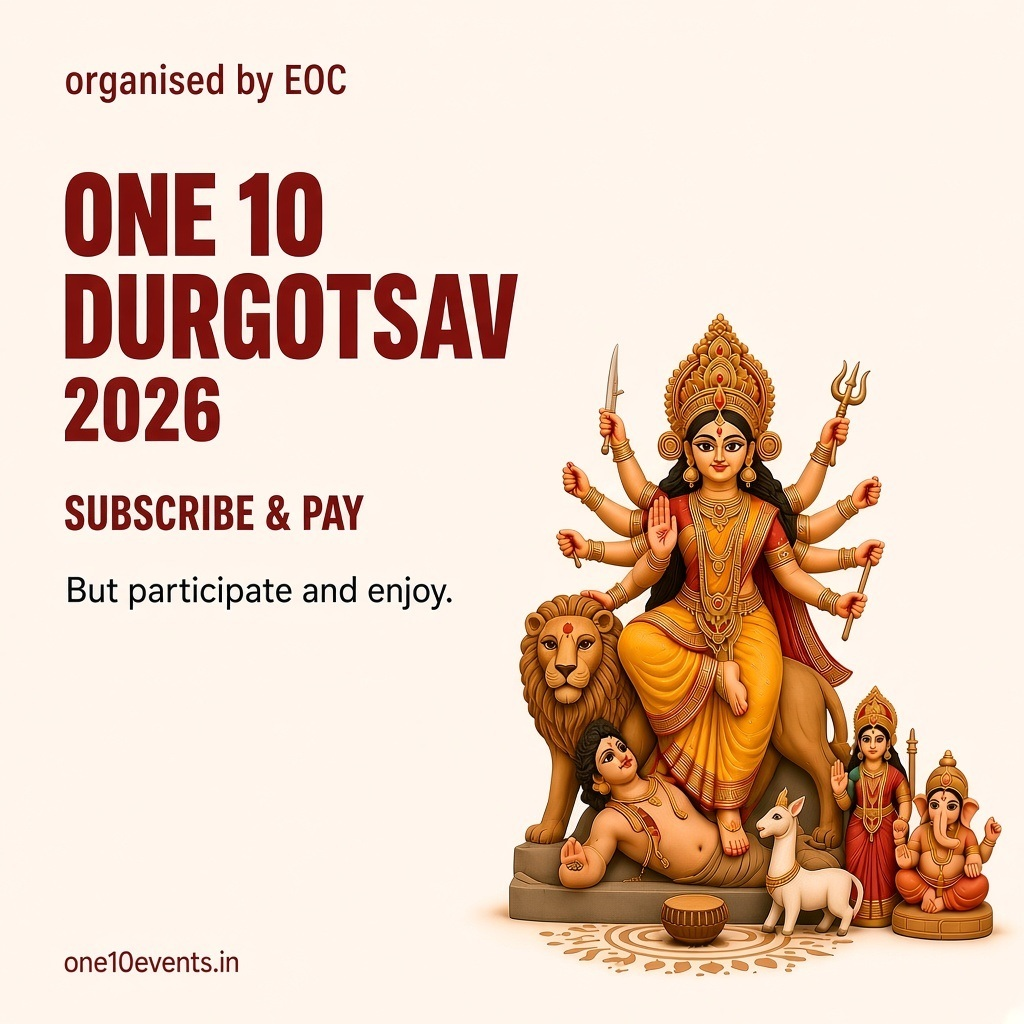
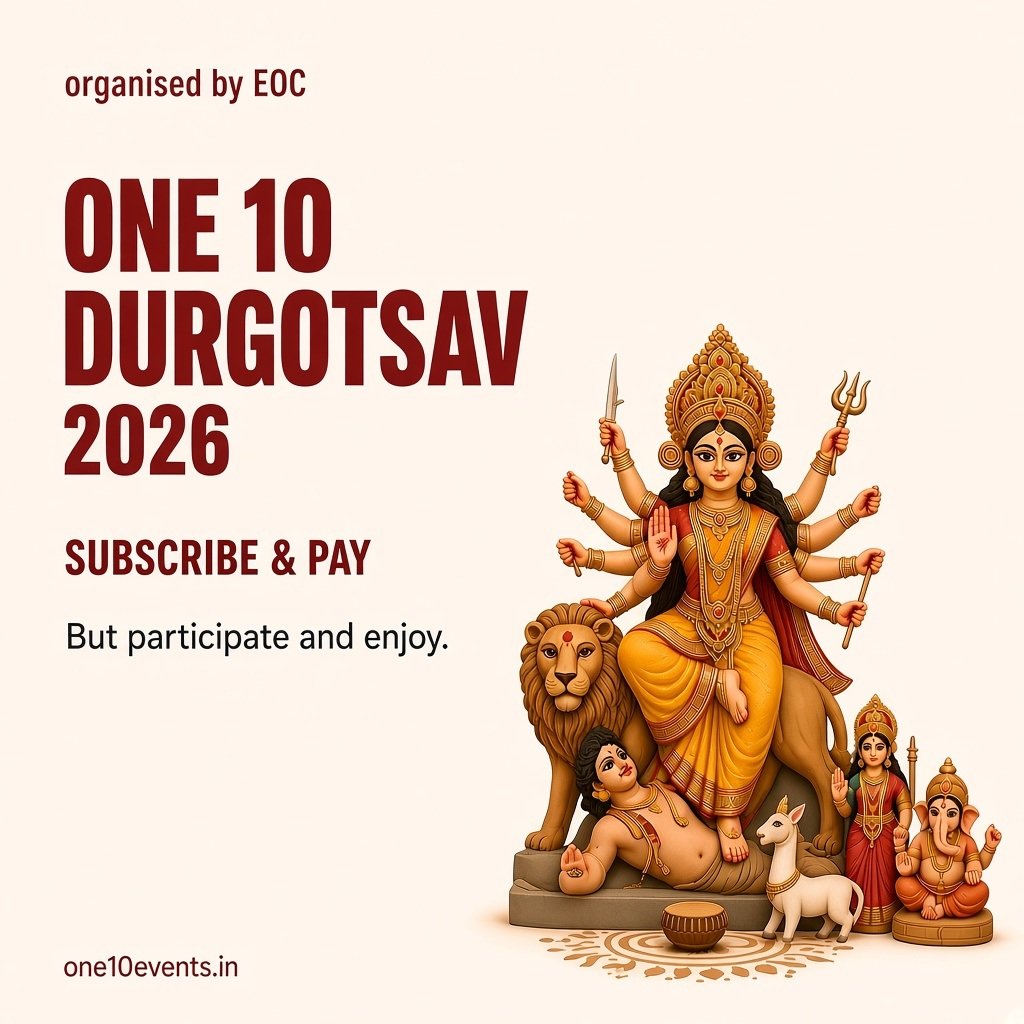
Clean invite poster: no repeated brand lines
One 10 Durgotsav 2026 once, organised by EOC small, drop Or don't,
and ship a true PNG share asset.

diff --git a/frontend/src/pages/public/Invite.jsx b/frontend/src/pages/public/Invite.jsx
@@ -59,11 +59,6 @@ export default function Invite() {
           >
             one10events.in
           </a>
-          <p className="max-w-[14rem] text-right text-xs leading-relaxed text-[#5C3530]/55">
-            Subscribe if you can.
-            <br />
-            Come either way.
-          </p>
         </div>
       </div>
     </main>
